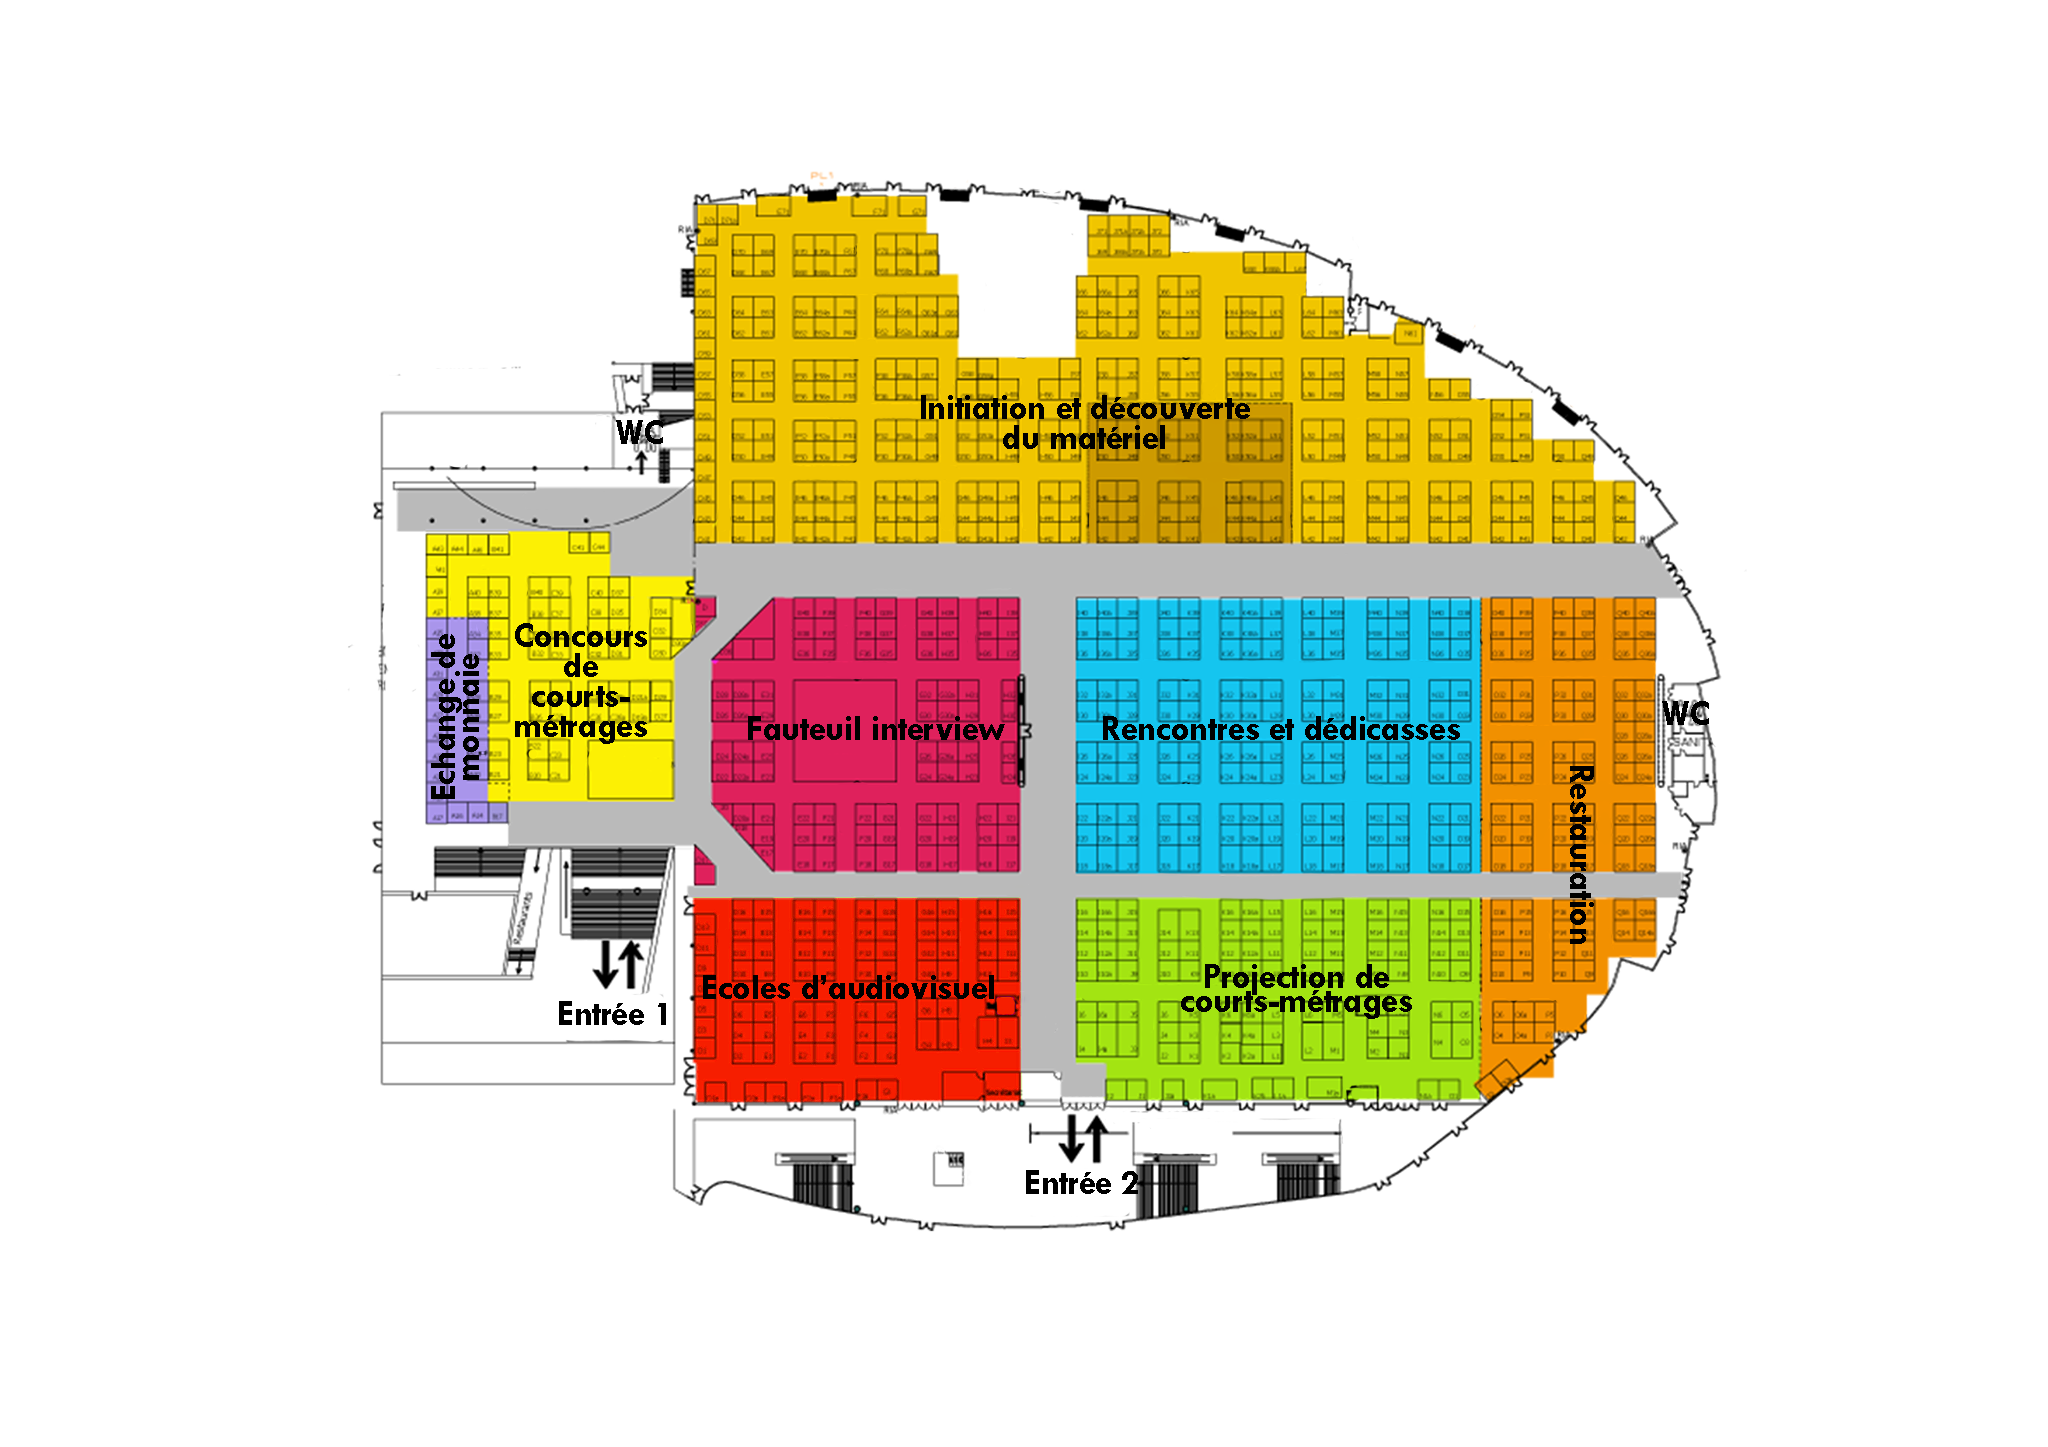
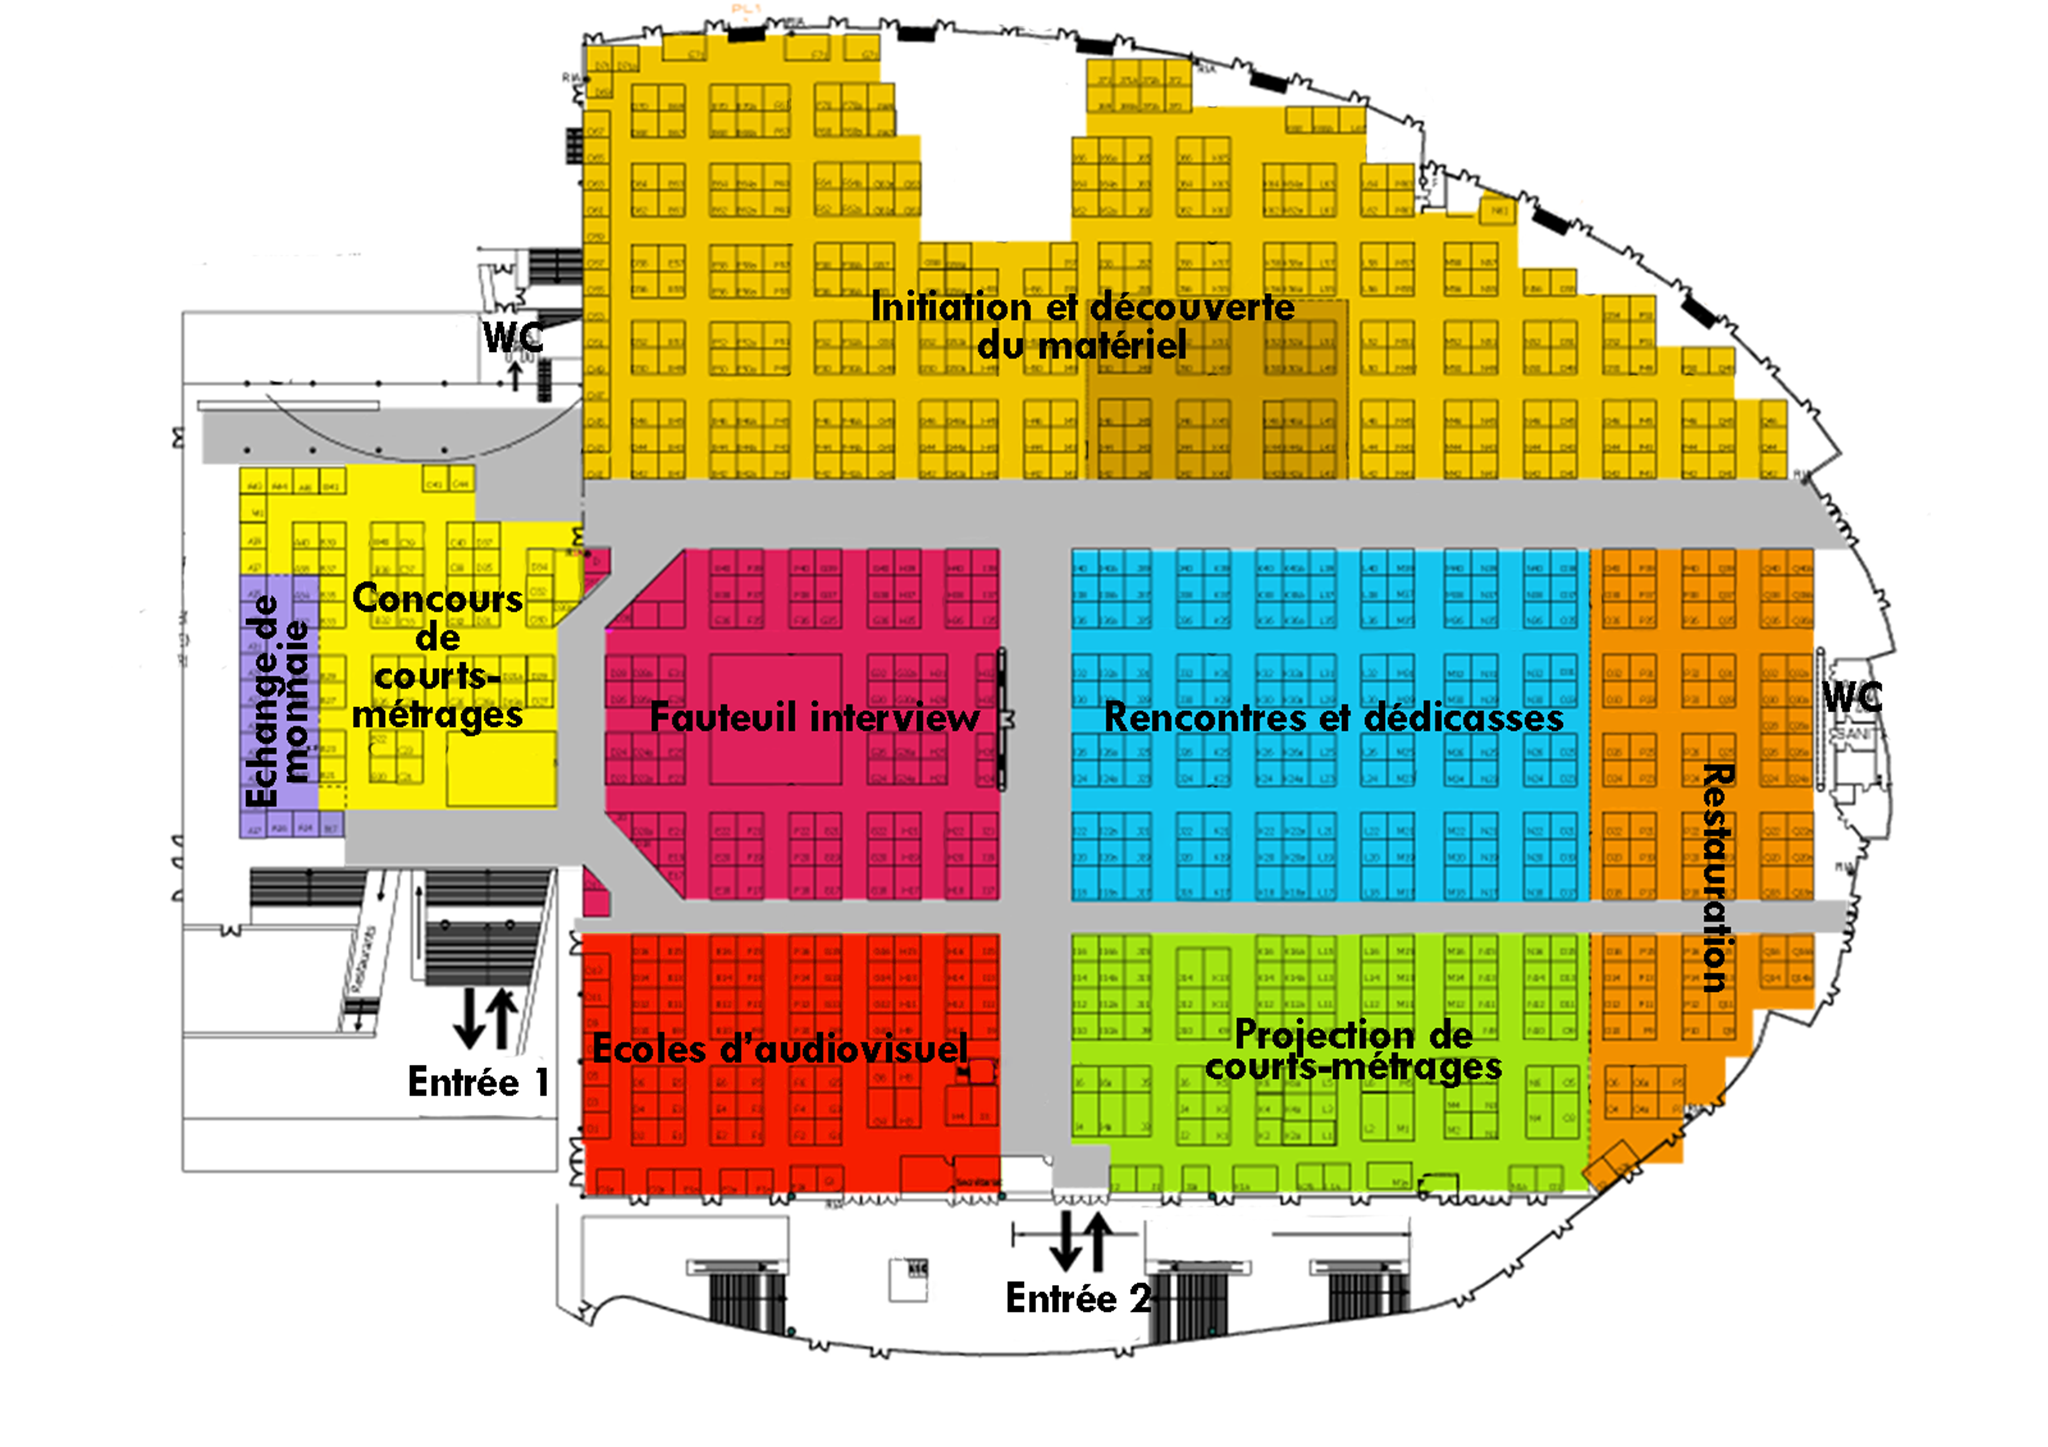
plan interieur salon et mise en place de la legende

diff --git a/borne/style.css b/borne/style.css
@@ -8,6 +8,10 @@ background: linear-gradient(
   background-size: cover
 
 }
+
+h2 {
+    font-family: 'TW Cen MT';
+}
 /* page accueil */
 #titre {
 text-align: center;
@@ -63,7 +67,7 @@ font-size: 14rem
 }
 
 /* page plan */
-#acces {
+#planinterne {
   text-align: center;
   margin-top: 0px;
 }
@@ -73,6 +77,62 @@ font-size: 14rem
   font-size: 5em;
   color: #FFFFFF;
   text-align: center;
+}
+
+#legende {
+    color: #ffffff;
+    font-size: 4.5rem;
+    text-align: center;  
+    font-family: 'TW Cen MT';
+}
+
+#legende li{
+      display: inline; 
+      font-size: 5rem;
+}
+
+#legende #bleu{
+    color: #15c5ef;
+    transform: scale(1.1);
+}
+
+#legende #rouge{
+    color: #f61e00;
+    transform: scale(1.1);
+}
+
+#legende #jaunef{
+    color: #f0c500;
+    transform: scale(1.1);
+}
+
+#legende #rose{
+    color: #df215c;
+    transform: scale(1.1);
+}
+
+#legende #jaune{
+    color: #fcf004;
+    transform: scale(1.1);
+}
+
+#legende #gris{
+    color: #a995eb;
+    transform: scale(1.1);
+}
+
+#legende #orange{
+    color: #f19000;
+    transform: scale(1.1);
+}
+
+#legende #vert{
+    color: #a6e712;
+    transform: scale(1.1);
+}
+
+#legende ul{
+     list-style-type: none;
 }
 
 /* page liste html */

diff --git a/borne/plan.html b/borne/plan.html
@@ -9,18 +9,29 @@
 <body>
 <div id="title-plan">
 <h2> Plan du salon </h2> </div>
-  <div id="acces">
-
-  <img src="images/Plan_LMM.png" alt="Plan accès" />
-
-  
-
+  <div id="planinterne">
+  <img src="images/Plan_LMM.png" alt="Plan interieur" />
   </div>
-
+  <div id="legende">
+<ul>
+    <p>Légende :</p>
+    <li id="bleu">Social</li>
+    <li id="rouge">Découverte</li>
+    <li id="jaunef">Initiation</li>
+    <li id="rose">Interview</li>
+    <li id="jaune">Concours</li>
+    <li id="gris">Echangeur monnaie</li>
+    <li id="orange">Restauration/WC</li>
+    <li id="vert">Diffusions</li>
+      </ul>    
+</div>
 
 
 </body>
 <footer>
+    <div id="btn-return">
+    <a href="index.html"><input type="button" value="retour" id="return"/> </a>
+    </div>
 </footer>
 
 </html>
